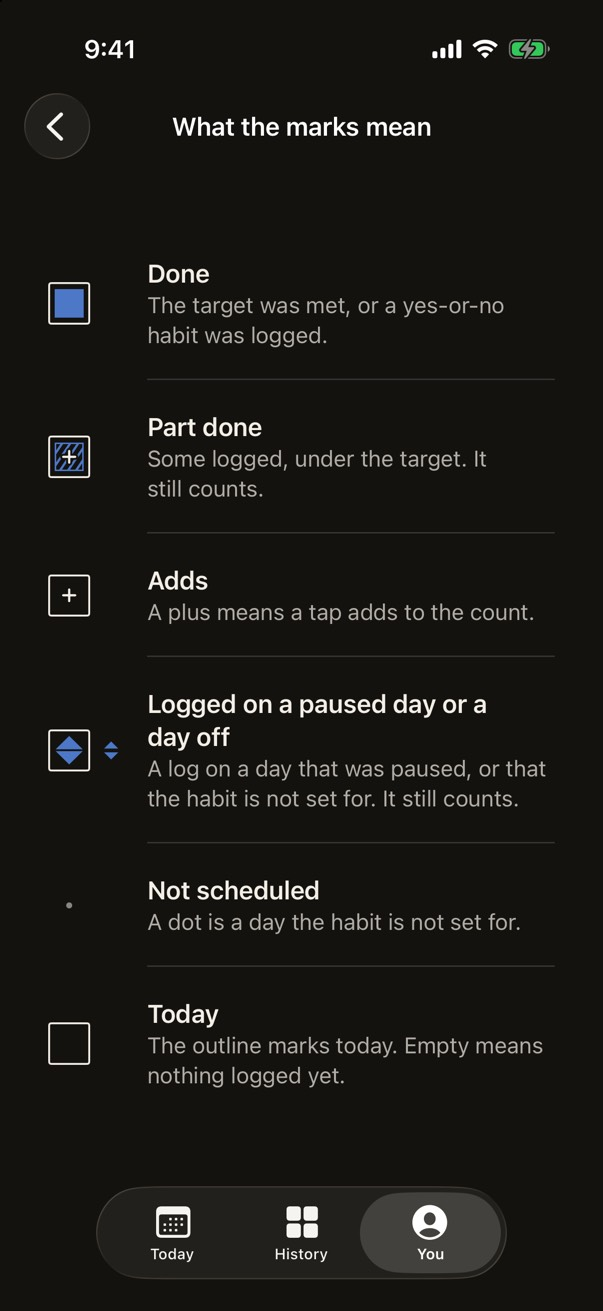
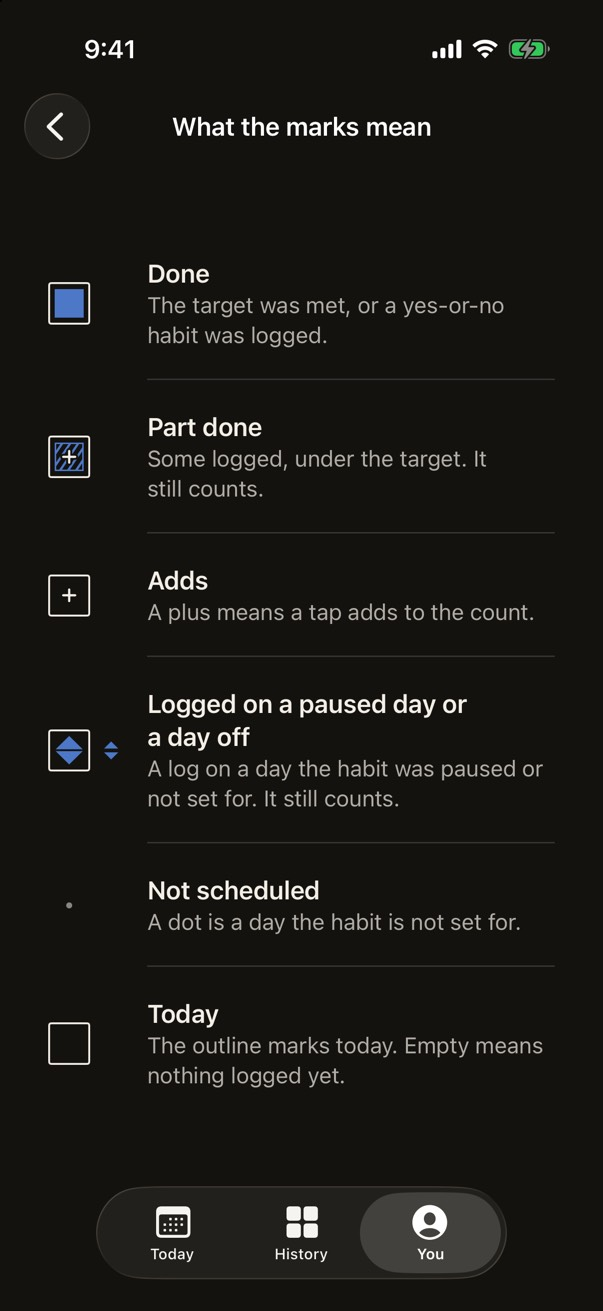
Review fixes for the diamond cut: board wording, size test, gates
- The marks board line reads "A log on a day the habit was paused or not set for. It still counts."
  The title keeps "a day off" together with no-break spaces. Content designer and senior designer.
- A source check fails if any full-size mark is drawn small enough that its diamond falls under the
  12 point jump in the cut. Colour vision and low vision.
- Gates: widget and Watch mark sizes join that test; the year-grid gate covers cells grown past 12 points.

Changed region(s): [[0.4478, 0.5797, 0.8955, 0.6407], [0.2388, 0.5492, 0.4179, 0.6407], [0.7761, 0.5187, 0.806, 0.5492]]

diff --git a/HabitKit/Tests/HabitKitTests/SourceChecks.swift b/HabitKit/Tests/HabitKitTests/SourceChecks.swift
@@ -29,6 +29,22 @@ struct SourceChecks {
         #expect(files.contains { $0.path == Self.intentFile }, "The app sources were not found")
     }
 
+    /// The diamond's cut jumps from the wide gap to the hairline at 12 points. Every full-size mark the app draws must sit
+    /// clearly above it, so one screen never mixes the two drawings. MarkView's diamond is 68% of its size, so 18 is the floor.
+    @Test func everyFullSizeMarkIsAboveTheCutThreshold() throws {
+        let call = try Regex(#"(?:^|[^A-Za-z])MarkView\(state:[^\n]*?size: ([0-9.]+)"#)
+        var sizes: [Double] = [28] // the default size
+        for file in try swiftFiles() {
+            for match in file.text.matches(of: call) {
+                if let value = match.output[1].substring.flatMap({ Double($0) }) { sizes.append(value) }
+            }
+        }
+        #expect(sizes.count > 1, "No MarkView sizes were found")
+        for size in sizes {
+            #expect(size * 0.68 > 12, "A MarkView of \(size) points draws its diamond under 12 points")
+        }
+    }
+
     /// Tokens live in the style files only. A view that computes a colour or names a font is a bug.
     @Test func coloursAndFontsAreNamedOnlyInTheStyleFiles() throws {
         // `Color(` as a call, not as the end of a name such as `swatchColor(`.

diff --git a/App/You/YouView.swift b/App/You/YouView.swift
@@ -218,7 +218,7 @@ struct MarksBoardView: View {
             (.done, true, false, "Done", "The target was met, or a yes-or-no habit was logged."),
             (.partDone, true, true, "Part done", "Some logged, under the target. It still counts."),
             (.blank, true, true, "Adds", "A plus means a tap adds to the count."),
-            (.loggedOffSchedule, true, false, "Logged on a paused day or a day off", "A log on a day that was paused, or that the habit is not set for. It still counts."),
+            (.loggedOffSchedule, true, false, "Logged on a paused day or a\u{00A0}day\u{00A0}off", "A log on a day the habit was paused or not set for. It still counts."),
             (.offSchedule, false, false, "Not scheduled", "A dot is a day the habit is not set for."),
             (.blank, true, false, "Today", "The outline marks today. Empty means nothing logged yet."),
         ]

diff --git a/docs/findings.md b/docs/findings.md
@@ -9,11 +9,13 @@ Status is one of: owed (with the milestone), gate (a test that must pass), guess
 | Milestone | Test | If it fails | Set by |
 |---|---|---|---|
 | 3 | The widget in clear and tinted modes, on the lightest wallpaper, keeps 3:1 for marks and 4.5:1 for text | Use the system's vibrant foreground. If it still fails, the widget ships without clear mode support | Low vision, 15 Nov. Seen in `m3-w-clear.png` |
-| 4 | History month strip and the Habit detail year grid at the largest text size, and under a blur test, in Pen and ink, Pencil and Watercolor. Includes "Not logged" against an empty today, with Show days not logged on (`notlogged-*.jpg`). Includes today's year cell holding the split diamond, with and without Increase Contrast: inside today's outline the gap is 0.63 pt, and 0.38 pt with Increase Contrast. Each check uses a 3x simulator crop, not the 1.5x screenshots. Re-run the neighbour blur check whenever the diamond gap or the mark inset changes | Month moves to milestone 13. History becomes Week only, with no control. If only today's cell fails, today's outline in the year grid goes outside the mark, or the diamond gap is never less than 1 pt | Product owner and low vision, 15 Nov. Today's split diamond: colour vision and low vision, 16 Nov, `SmallMark.swift` today box. Seen in `sheet-hist-month.png` |
+| 4 | History month strip and the Habit detail year grid at the largest text size, and under a blur test, in Pen and ink, Pencil and Watercolor. Includes "Not logged" against an empty today, with Show days not logged on (`notlogged-*.jpg`). Includes today's year cell holding the split diamond, with and without Increase Contrast: inside today's outline the gap is 0.63 pt, and 0.38 pt with Increase Contrast. Each check uses a 3x simulator crop, not the 1.5x screenshots. Re-run the neighbour blur check whenever the diamond gap or the mark inset changes. Where larger text grows a year or strip cell past 12 points, the diamond takes the hairline: check that size too | Month moves to milestone 13. History becomes Week only, with no control. If only today's cell fails, today's outline in the year grid goes outside the mark, or the diamond gap is never less than 1 pt | Product owner and low vision, 15 Nov. Today's split diamond: colour vision and low vision, 16 Nov, `SmallMark.swift` today box. Seen in `sheet-hist-month.png` |
 | 3 | On a device with VoiceOver, the rotor offers Audio Graph on the Habit detail year grid | Wrap the grid in `.accessibilityElement(children: .contain)` and test again. If it still fails, put the descriptor on one element that sums up the year | Accessibility, 15 Nov. `App/History/HabitDetailView.swift`, YearGrid |
 | 3 | Bring back offers to pause the span the habit was archived, and a run test shows a habit archived and brought back with that pause keeps its run | Bring back stays without the offer, and the owner decides open decision 6 in `docs/spec.md` | Behavioural scientist, returning user, 15 Nov. `AppModel.bringBack`, `Runs.swift` |
 | 3 | One signed, sandboxed run of the Mac app with the owner's free account: export to a picked folder, import from it, and open the App Group store | Unsigned builds run without the sandbox, so no test has exercised it. If it fails, find the missing entitlement or profile and bring it to the owner | Release engineer, 15 Nov. `Config/Habit-macOS.entitlements` |
 | 4 | On a device at 100%, two split diamonds side by side in a History month row do not read as the system up-down chevron of a menu | Try the 10-degree tilted gap Pencil uses, and run the blur test again | Senior designer, colour vision and low vision, 16 Nov. Seen in `history-month-paper.jpg`, Read row |
+| 3 | The widget's mark sizes are added to the diamond cut test (`everyFullSizeMarkIsAboveTheCutThreshold`), so no widget mark sits near the 12 point jump | Size the widget mark clear of 12 points | Colour vision and low vision, 16 Nov. `SmallMark.diamondCut` |
+| 7 | The Watch's mark sizes are added to the same test | Size the Watch mark clear of 12 points | Colour vision and low vision, 16 Nov |
 | 13 | The system offers to save an export password that has no account or domain | The export screen does not mention saving | Security and privacy, 15 Nov |
 
 ## Gates passed
